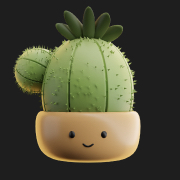
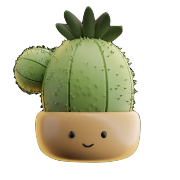
insert cactobot image with clear background

diff --git a/home.py b/home.py
@@ -1,5 +1,6 @@
 import tkinter as tk
 from tkinter import ttk
+from tkinter import *
 
 import setting
 import task
@@ -25,6 +26,9 @@ class homePage(tk.Frame):
                            height = 30, width = 8, font = SMALLFONT)
         # btnStyle.map("btn.TButton",
         #              foreground=[('pressed', 'red'), ('active', 'blue')])
+
+        imgStyle = ttk.Style()
+        imgStyle.configure('img.TLabel', background = "#77A752")
         
      
         # putting the home and settings button
@@ -45,7 +49,14 @@ class homePage(tk.Frame):
         label = ttk.Label(self, text ="Let's take a look at today's tasks!", font = MEDIUMFONT)
         label.grid(row = 2, column = 5, padx = 10, pady = 10)
 
-        # TODO: add image
+        # add Catcobot image
+        # Load the image
+        image_path = "images/Cactobot.png"
+        image = tk.PhotoImage(file=image_path)
+        # Create a label widget and set the image
+        l1 = ttk.Label(self, image=image, style = 'img.TLabel')
+        l1.image = image  # Keep a reference to the image
+        l1.grid(row = 3, column = 3, padx = 10, pady = 10)
 
         # task button to link to task page
         taskBtn = ttk.Button(self, text ="TASKS", style = 'btn.TButton',
